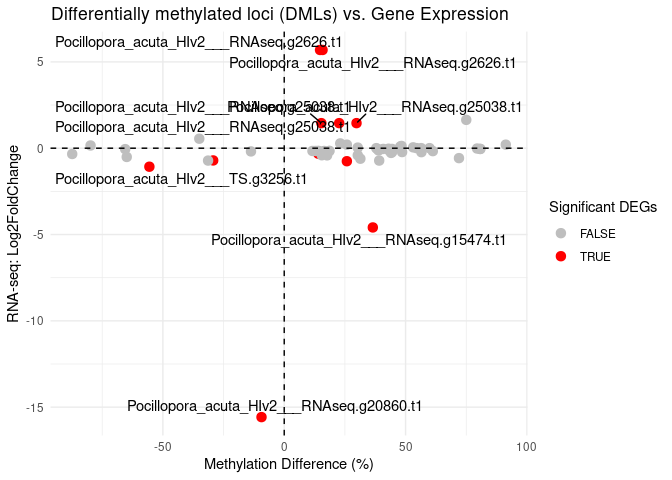
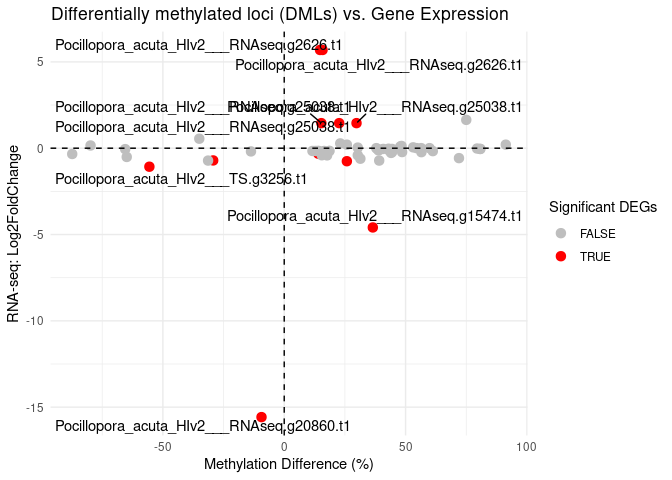
knit code

diff --git a/code/09-MethylKit-ConvFilt.md b/code/09-MethylKit-ConvFilt.md
@@ -31,6 +31,7 @@ Zoe Dellaert
     expressed](#053-absolute-value-of-log2foldchange-relationship-between-overall-methylation-of-a-gene-and-whether-or-not-it-is-differentially-expressed)
   - [0.5.4 Read counts/vsd transformed
     counts](#054-read-countsvsd-transformed-counts)
+  - [0.5.5 Extracting table of genes](#055-extracting-table-of-genes)
 - [0.6 Methylated CpG locations](#06-methylated-cpg-locations)
 
 ## 0.1 MethylKit - Reads filtered for \>90% conversion efficiency
@@ -312,8 +313,6 @@ meta <- meta %>% arrange(Sample)
 ```
 
 ``` r
-#file_list <- list.files("/scratch3/workspace/zdellaert_uri_edu-shared/methylseq_V3_bwa_test/bwameth/deduplicated/min_efficiency_test",pattern = "^min_90.*_CpG.methylKit$",  full.names = TRUE, include.dirs = FALSE)
-
 file_list <- list.files("../output_WGBS/methylseq_V3_bwa_test/methyldackel/min_efficiency_test_new",pattern = "^min_90.*_CpG.methylKit$",  full.names = TRUE, include.dirs = FALSE)
 
 sample <- gsub("_CpG.methylKit", "", basename(file_list) )
@@ -747,6 +746,33 @@ head(DMLs)
     ## 6087 3.837845e-02  23.07692
     ## 7904 2.468497e-03 -44.00000
 
+``` r
+DMLs_25 <- methylKit::getMethylDiff(DMLStats_Tissue, difference = 25, qvalue = 0.05) #Identify DML based on difference threshold
+
+length(DMLs_25$chr) #DML
+```
+
+    ## [1] 128
+
+``` r
+head(DMLs_25)
+```
+
+    ##                                     chr   start     end strand       pvalue
+    ## 4981 Pocillopora_acuta_HIv2___Sc0000002 3933210 3933210      + 6.801995e-06
+    ## 5083 Pocillopora_acuta_HIv2___Sc0000002 4354790 4354790      + 2.793794e-10
+    ## 7904 Pocillopora_acuta_HIv2___Sc0000003 2149671 2149671      + 1.223095e-06
+    ## 8011 Pocillopora_acuta_HIv2___Sc0000003 2461240 2461240      + 5.405275e-05
+    ## 9203 Pocillopora_acuta_HIv2___Sc0000003 8383662 8383662      + 4.331291e-06
+    ## 9218 Pocillopora_acuta_HIv2___Sc0000003 8702392 8702392      + 2.065599e-05
+    ##            qvalue meth.diff
+    ## 4981 8.340879e-03  75.00000
+    ## 5083 2.477162e-06  29.78723
+    ## 7904 2.468497e-03 -44.00000
+    ## 8011 3.643553e-02 -35.00000
+    ## 9203 5.854711e-03  37.50000
+    ## 9218 1.725322e-02  30.30303
+
 ## 0.4 Further look at genome wide methylation
 
 ``` r
@@ -793,6 +819,7 @@ exons = gffToGRanges(gff.file, filter = "exon")
 
 transcripts = gffToGRanges(gff.file, filter = "transcript")
 
+DML_all_grange = as(DMLStats_Tissue,"GRanges")
 DML_grange = as(DMLs,"GRanges")
 DML_grange
 ```
@@ -831,15 +858,23 @@ DML_grange
 transcripts = gffToGRanges(gff.file, filter = "transcript")
 
 # Find overlaps between DMLs and transcripts
-overlaps_transcripts <- findOverlaps(DML_grange, transcripts,ignore.strand = TRUE)
+overlaps_transcripts <- findOverlaps(DML_all_grange, transcripts,ignore.strand = TRUE)
+```
 
+    ## Warning in .merge_two_Seqinfo_objects(x, y): Each of the 2 combined objects has sequence levels not in the other:
+    ##   - in 'x': Pocillopora_acuta_HIv2___Sc0000054, Pocillopora_acuta_HIv2___Sc0000069, Pocillopora_acuta_HIv2___xfSc0000067, Pocillopora_acuta_HIv2___xfSc0000112, Pocillopora_acuta_HIv2___xfSc0000153, Pocillopora_acuta_HIv2___xfSc0000172, Pocillopora_acuta_HIv2___xfSc0000225, Pocillopora_acuta_HIv2___xfSc0000365, Pocillopora_acuta_HIv2___xfSc0000369, Pocillopora_acuta_HIv2___xfSc0000372, Pocillopora_acuta_HIv2___xfSc0000375, Pocillopora_acuta_HIv2___xfSc0000383, Pocillopora_acuta_HIv2___xpSc0000428
+    ##   - in 'y': Pocillopora_acuta_HIv2___Sc0000056, Pocillopora_acuta_HIv2___Sc0000058, Pocillopora_acuta_HIv2___Sc0000059, Pocillopora_acuta_HIv2___Sc0000062, Pocillopora_acuta_HIv2___Sc0000064, Pocillopora_acuta_HIv2___Sc0000068, Pocillopora_acuta_HIv2___Sc0000070, Pocillopora_acuta_HIv2___Sc0000073, Pocillopora_acuta_HIv2___Sc0000076, Pocillopora_acuta_HIv2___Sc0000077, Pocillopora_acuta_HIv2___Sc0000080, Pocillopora_acuta_HIv2___xfSc0000071, Pocillopora_acuta_HIv2___xfSc0000074, Pocillopora_acuta_HIv2___xfSc0000078, Pocillopora_acuta_HIv2___xfSc0000087, Pocillopora_acuta_HIv2___xfSc0000089, Pocillopora_acuta_HIv2___xfSc0000090, Pocillopora_acuta_HIv2___xfSc0000095, Pocillopora_acuta_HIv2___xfSc0000097, Pocillopora_acuta_HIv2___xfSc0000099, Pocillopora_acuta_HIv2___xfSc0000104, Pocillopora_acuta_HIv2___xfSc0000105, Pocillopora_acuta_HIv2___xfSc0000108, Pocillopora_acuta_HIv2___xfSc0000109, Pocillopora_acuta_HIv2___xfSc0000110, Pocillopora_acuta_HIv2___xfSc0000116, Pocillopora_acuta_HIv2___xfSc0000119, Pocillopora_acuta_HIv2___xfSc0000121, Pocillopora_acuta_HIv2___xfSc0000122, Pocillopora_acuta_HIv2___xfSc0000128, Pocillopora_acuta_HIv2___xfSc0000129, Pocillopora_acuta_HIv2___xfSc0000131, Pocillopora_acuta_HIv2___xfSc0000132, Pocillopora_acuta_HIv2___xfSc0000135, Pocillopora_acuta_HIv2___xfSc0000136, Pocillopora_acuta_HIv2___xfSc0000139, Pocillopora_acuta_HIv2___xfSc0000140, Pocillopora_acuta_HIv2___xfSc0000141, Pocillopora_acuta_HIv2___xfSc0000143, Pocillopora_acuta_HIv2___xfSc0000144, Pocillopora_acuta_HIv2___xfSc0000147, Pocillopora_acuta_HIv2___xfSc0000148, Pocillopora_acuta_HIv2___xfSc0000151, Pocillopora_acuta_HIv2___xfSc0000152, Pocillopora_acuta_HIv2___xfSc0000154, Pocillopora_acuta_HIv2___xfSc0000155, Pocillopora_acuta_HIv2___xfSc0000158, Pocillopora_acuta_HIv2___xfSc0000160, Pocillopora_acuta_HIv2___xfSc0000161, Pocillopora_acuta_HIv2___xfSc0000163, Pocillopora_acuta_HIv2___xfSc0000165, Pocillopora_acuta_HIv2___xfSc0000166, Pocillopora_acuta_HIv2___xfSc0000167, Pocillopora_acuta_HIv2___xfSc0000168, Pocillopora_acuta_HIv2___xfSc0000171, Pocillopora_acuta_HIv2___xfSc0000177, Pocillopora_acuta_HIv2___xfSc0000179, Pocillopora_acuta_HIv2___xfSc0000180, Pocillopora_acuta_HIv2___xfSc0000182, Pocillopora_acuta_HIv2___xfSc0000183, Pocillopora_acuta_HIv2___xfSc0000184, Pocillopora_acuta_HIv2___xfSc0000185, Pocillopora_acuta_HIv2___xfSc0000186, Pocillopora_acuta_HIv2___xfSc0000187, Pocillopora_acuta_HIv2___xfSc0000189, Pocillopora_acuta_HIv2___xfSc0000191, Pocillopora_acuta_HIv2___xfSc0000192, Pocillopora_acuta_HIv2___xfSc0000193, Pocillopora_acuta_HIv2___xfSc0000195, Pocillopora_acuta_HIv2___xfSc0000196, Pocillopora_acuta_HIv2___xfSc0000200, Pocillopora_acuta_HIv2___xfSc0000203, Pocillopora_acuta_HIv2___xfSc0000204, Pocillopora_acuta_HIv2___xfSc0000205, Pocillopora_acuta_HIv2___xfSc0000207, Pocillopora_acuta_HIv2___xfSc0000208, Pocillopora_acuta_HIv2___xfSc0000209, Pocillopora_acuta_HIv2___xfSc0000212, Pocillopora_acuta_HIv2___xfSc0000214, Pocillopora_acuta_HIv2___xfSc0000215, Pocillopora_acuta_HIv2___xfSc0000216, Pocillopora_acuta_HIv2___xfSc0000217, Pocillopora_acuta_HIv2___xfSc0000218, Pocillopora_acuta_HIv2___xfSc0000223, Pocillopora_acuta_HIv2___xfSc0000228, Pocillopora_acuta_HIv2___xfSc0000230, Pocillopora_acuta_HIv2___xfSc0000231, Pocillopora_acuta_HIv2___xfSc0000232, Pocillopora_acuta_HIv2___xfSc0000233, Pocillopora_acuta_HIv2___xfSc0000234, Pocillopora_acuta_HIv2___xfSc0000236, Pocillopora_acuta_HIv2___xfSc0000237, Pocillopora_acuta_HIv2___xfSc0000239, Pocillopora_acuta_HIv2___xfSc0000240, Pocillopora_acuta_HIv2___xfSc0000243, Pocillopora_acuta_HIv2___xfSc0000244, Pocillopora_acuta_HIv2___xfSc0000248, Pocillopora_acuta_HIv2___xfSc0000249, Pocillopora_acuta_HIv2___xfSc0000250, Pocillopora_acuta_HIv2___xfSc0000251, Pocillopora_acuta_HIv2___xfSc0000252, Pocillopora_acuta_HIv2___xfSc0000255, Pocillopora_acuta_HIv2___xfSc0000256, Pocillopora_acuta_HIv2___xfSc0000257, Pocillopora_acuta_HIv2___xfSc0000258, Pocillopora_acuta_HIv2___xfSc0000260, Pocillopora_acuta_HIv2___xfSc0000262, Pocillopora_acuta_HIv2___xfSc0000264, Pocillopora_acuta_HIv2___xfSc0000265, Pocillopora_acuta_HIv2___xfSc0000266, Pocillopora_acuta_HIv2___xfSc0000267, Pocillopora_acuta_HIv2___xfSc0000268, Pocillopora_acuta_HIv2___xfSc0000269, Pocillopora_acuta_HIv2___xfSc0000271, Pocillopora_acuta_HIv2___xfSc0000272, Pocillopora_acuta_HIv2___xfSc0000273, Pocillopora_acuta_HIv2___xfSc0000275, Pocillopora_acuta_HIv2___xfSc0000276, Pocillopora_acuta_HIv2___xfSc0000277, Pocillopora_acuta_HIv2___xfSc0000280, Pocillopora_acuta_HIv2___xfSc0000281, Pocillopora_acuta_HIv2___xfSc0000283, Pocillopora_acuta_HIv2___xfSc0000284, Pocillopora_acuta_HIv2___xfSc0000287, Pocillopora_acuta_HIv2___xfSc0000288, Pocillopora_acuta_HIv2___xfSc0000291, Pocillopora_acuta_HIv2___xfSc0000293, Pocillopora_acuta_HIv2___xfSc0000296, Pocillopora_acuta_HIv2___xfSc0000302, Pocillopora_acuta_HIv2___xfSc0000303, Pocillopora_acuta_HIv2___xfSc0000305, Pocillopora_acuta_HIv2___xfSc0000306, Pocillopora_acuta_HIv2___xfSc0000310, Pocillopora_acuta_HIv2___xfSc0000311, Pocillopora_acuta_HIv2___xfSc0000313, Pocillopora_acuta_HIv2___xfSc0000315, Pocillopora_acuta_HIv2___xfSc0000316, Pocillopora_acuta_HIv2___xfSc0000319, Pocillopora_acuta_HIv2___xfSc0000322, Pocillopora_acuta_HIv2___xfSc0000325, Pocillopora_acuta_HIv2___xfSc0000326, Pocillopora_acuta_HIv2___xfSc0000327, Pocillopora_acuta_HIv2___xfSc0000334, Pocillopora_acuta_HIv2___xfSc0000343, Pocillopora_acuta_HIv2___xfSc0000344, Pocillopora_acuta_HIv2___xfSc0000345, Pocillopora_acuta_HIv2___xfSc0000346, Pocillopora_acuta_HIv2___xfSc0000347, Pocillopora_acuta_HIv2___xfSc0000349, Pocillopora_acuta_HIv2___xfSc0000350, Pocillopora_acuta_HIv2___xfSc0000354, Pocillopora_acuta_HIv2___xfSc0000361, Pocillopora_acuta_HIv2___xfSc0000362, Pocillopora_acuta_HIv2___xfSc0000363, Pocillopora_acuta_HIv2___xfSc0000368, Pocillopora_acuta_HIv2___xfSc0000370, Pocillopora_acuta_HIv2___xfSc0000371, Pocillopora_acuta_HIv2___xfSc0000374, Pocillopora_acuta_HIv2___xfSc0000376, Pocillopora_acuta_HIv2___xfSc0000377, Pocillopora_acuta_HIv2___xfSc0000378, Pocillopora_acuta_HIv2___xfSc0000379, Pocillopora_acuta_HIv2___xfSc0000380, Pocillopora_acuta_HIv2___xfSc0000384, Pocillopora_acuta_HIv2___xfSc0000386, Pocillopora_acuta_HIv2___xpSc0000402, Pocillopora_acuta_HIv2___xpSc0000412, Pocillopora_acuta_HIv2___xpSc0000414, Pocillopora_acuta_HIv2___xpSc0000415, Pocillopora_acuta_HIv2___xpSc0000417, Pocillopora_acuta_HIv2___xpSc0000422, Pocillopora_acuta_HIv2___xpSc0000423, Pocillopora_acuta_HIv2___xpSc0000425, Pocillopora_acuta_HIv2___xpSc0000430, Pocillopora_acuta_HIv2___xpSc0000439, Pocillopora_acuta_HIv2___xpSc0000447
+    ##   Make sure to always combine/compare objects based on the same reference
+    ##   genome (use suppressWarnings() to suppress this warning).
+
+``` r
 # Extract matching transcript information
-DML_transcript_annot <- data.frame(
-  DML_chr = seqnames(DML_grange)[queryHits(overlaps_transcripts)],
-  DML_start = start(DML_grange)[queryHits(overlaps_transcripts)],
-  DML_end = end(DML_grange)[queryHits(overlaps_transcripts)],
-  DML_qvalue = (DML_grange$qvalue)[queryHits(overlaps_transcripts)],
-  DML_methdiff = (DML_grange$meth.diff)[queryHits(overlaps_transcripts)],
+DML_transcript_annot_allCpg <- data.frame(
+  DML_chr = seqnames(DML_all_grange)[queryHits(overlaps_transcripts)],
+  DML_start = start(DML_all_grange)[queryHits(overlaps_transcripts)],
+  DML_end = end(DML_all_grange)[queryHits(overlaps_transcripts)],
+  DML_qvalue = (DML_all_grange$qvalue)[queryHits(overlaps_transcripts)],
+  DML_methdiff = (DML_all_grange$meth.diff)[queryHits(overlaps_transcripts)],
   transcript_chr = seqnames(transcripts)[subjectHits(overlaps_transcripts)],
   transcript_start = start(transcripts)[subjectHits(overlaps_transcripts)],
   transcript_end = end(transcripts)[subjectHits(overlaps_transcripts)],
@@ -847,6 +882,8 @@ DML_transcript_annot <- data.frame(
   gene_id = transcripts$gene_id[subjectHits(overlaps_transcripts)]
 )
 
+DML_transcript_annot <- DML_transcript_annot_allCpg %>% filter(DML_qvalue < 0.05)
+  
 # View first few rows
 head(DML_transcript_annot)
 ```
@@ -1471,6 +1508,41 @@ anova(full_model, interaction_model)
     ## ---
     ## Signif. codes:  0 '***' 0.001 '**' 0.01 '*' 0.05 '.' 0.1 ' ' 1
 
+### 0.5.5 Extracting table of genes
+
+``` r
+DML_info <- DML_transcript_annot %>% dplyr::select(DML_start,DML_end,DML_qvalue,DML_methdiff,gene_id)
+DML_info <- DML_info %>% group_by(gene_id) %>% summarise(n_DML = n(),
+                                                         mean_methdiff = mean(DML_methdiff),
+                                                         median_methdiff = median(DML_methdiff),
+                                                         mean_methdiff_qvalue = mean(DML_qvalue),
+                                                         min_methdiff_qvalue = min(DML_qvalue),
+                                                         max_methdiff_qvalue = max(DML_qvalue))
+  
+RNA_CpG <- left_join(percent_meth, DML_info, by = c("gene_id")) # take percent methylated CpGs per gene matrix and add signficance info for any differentially methylated loci
+RNA_CpG <- inner_join(RNA_CpG, vsd, by = c("gene_id")) # add gene expression info, vst-transformed expression values
+RNA_CpG <- inner_join(RNA_CpG, DESeq, by = join_by(gene_id == query)) # add DEseq results
+
+RNA_CpG <- RNA_CpG %>% 
+              rename(mean_percent_meth_ALL = percent_meth_ALL,
+                     Aboral_mean_perc_meth = Aboral.x,
+                     Aboral_mean_vst_expr = Aboral.y,
+                     Oral_mean_perc_meth = Oral.x,
+                     Oral_mean_vst_expr =  Oral.y,
+                     vst_mean_gene_expression = vst_mean,
+                     DEseq_baseMean = baseMean,
+                     DEseq_log2FoldChange = log2FoldChange,
+                     DEseq_lfcSE = lfcSE,
+                     DEseq_pvalue = pvalue,
+                     DEseq_padj = padj
+              )
+
+SwissProt <- read.delim("../references/annotation/protein-GO.tsv")
+
+RNA_CpG_annot <- RNA_CpG%>% left_join(SwissProt, by = join_by(gene_id == query)) 
+write.csv(RNA_CpG_annot, "../output_WGBS/MethylKit_ConvFilt90_RNA_Meth.csv")
+```
+
 ## 0.6 Methylated CpG locations
 
 ``` r
@@ -1790,7 +1862,7 @@ ggplot() +
   theme(legend.position = "none")
 ```
 
-![](09-MethylKit-ConvFilt_files/figure-gfm/unnamed-chunk-37-1.png)<!-- -->
+![](09-MethylKit-ConvFilt_files/figure-gfm/unnamed-chunk-38-1.png)<!-- -->
 
 ``` r
 all_CpGs <- data.frame(
@@ -1827,4 +1899,4 @@ ggplot(all_CpGs, aes(y = region, x = percent_methylated, fill = region)) +
   theme(legend.position = "none")
 ```
 
-![](09-MethylKit-ConvFilt_files/figure-gfm/unnamed-chunk-38-1.png)<!-- -->
+![](09-MethylKit-ConvFilt_files/figure-gfm/unnamed-chunk-39-1.png)<!-- -->
